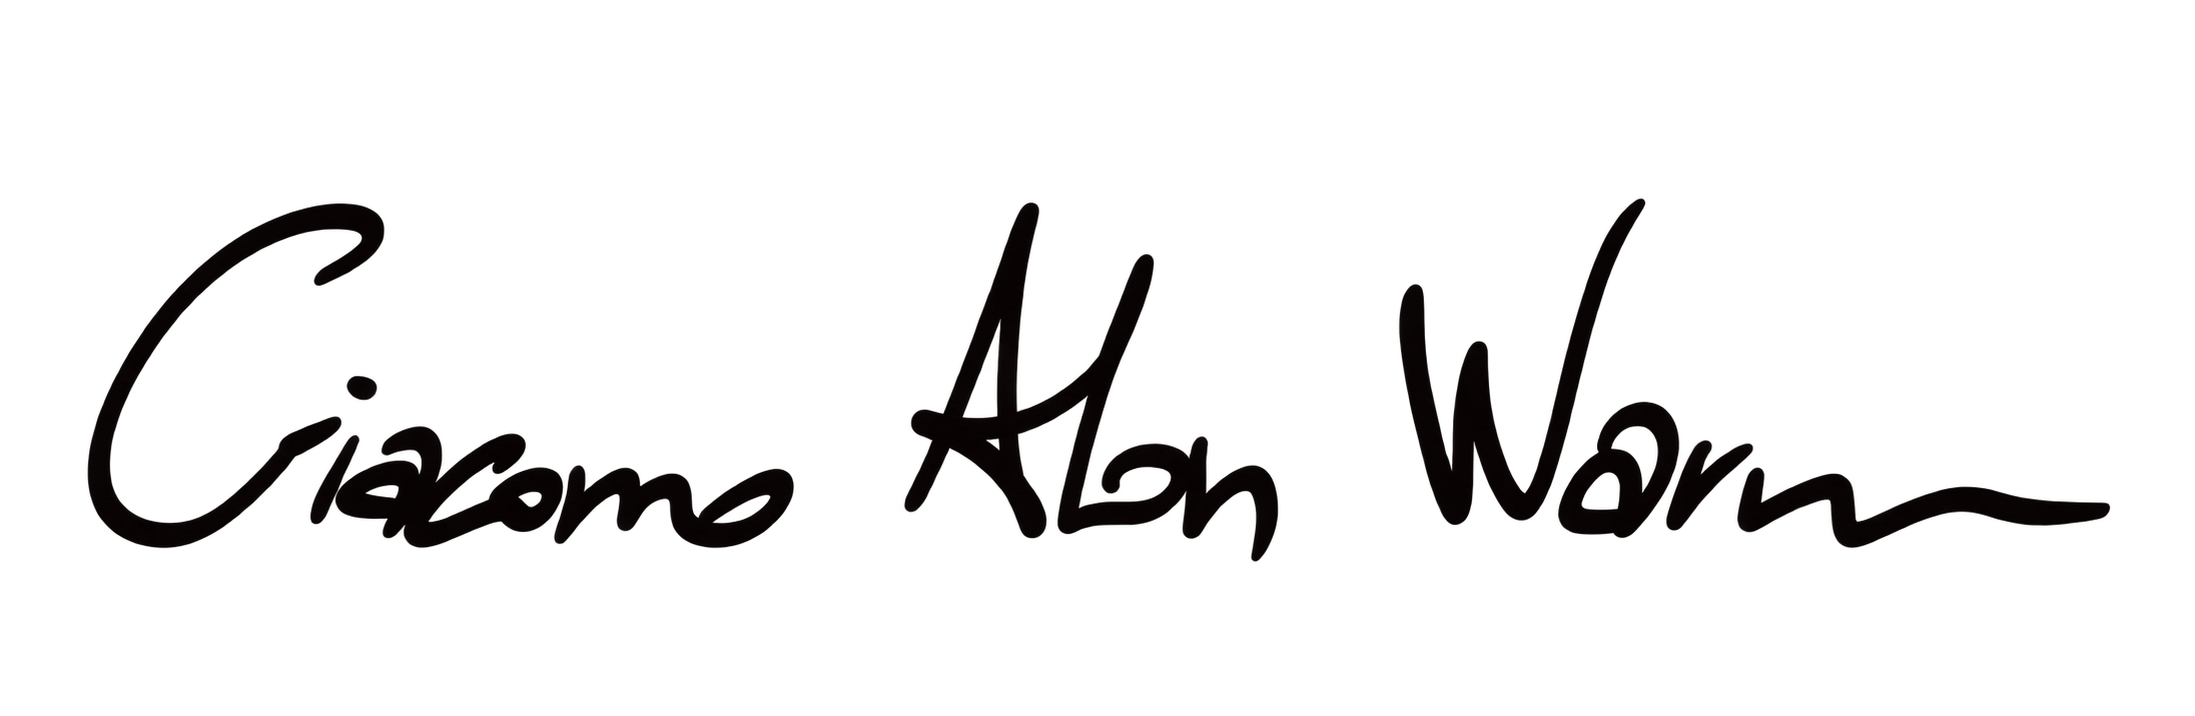
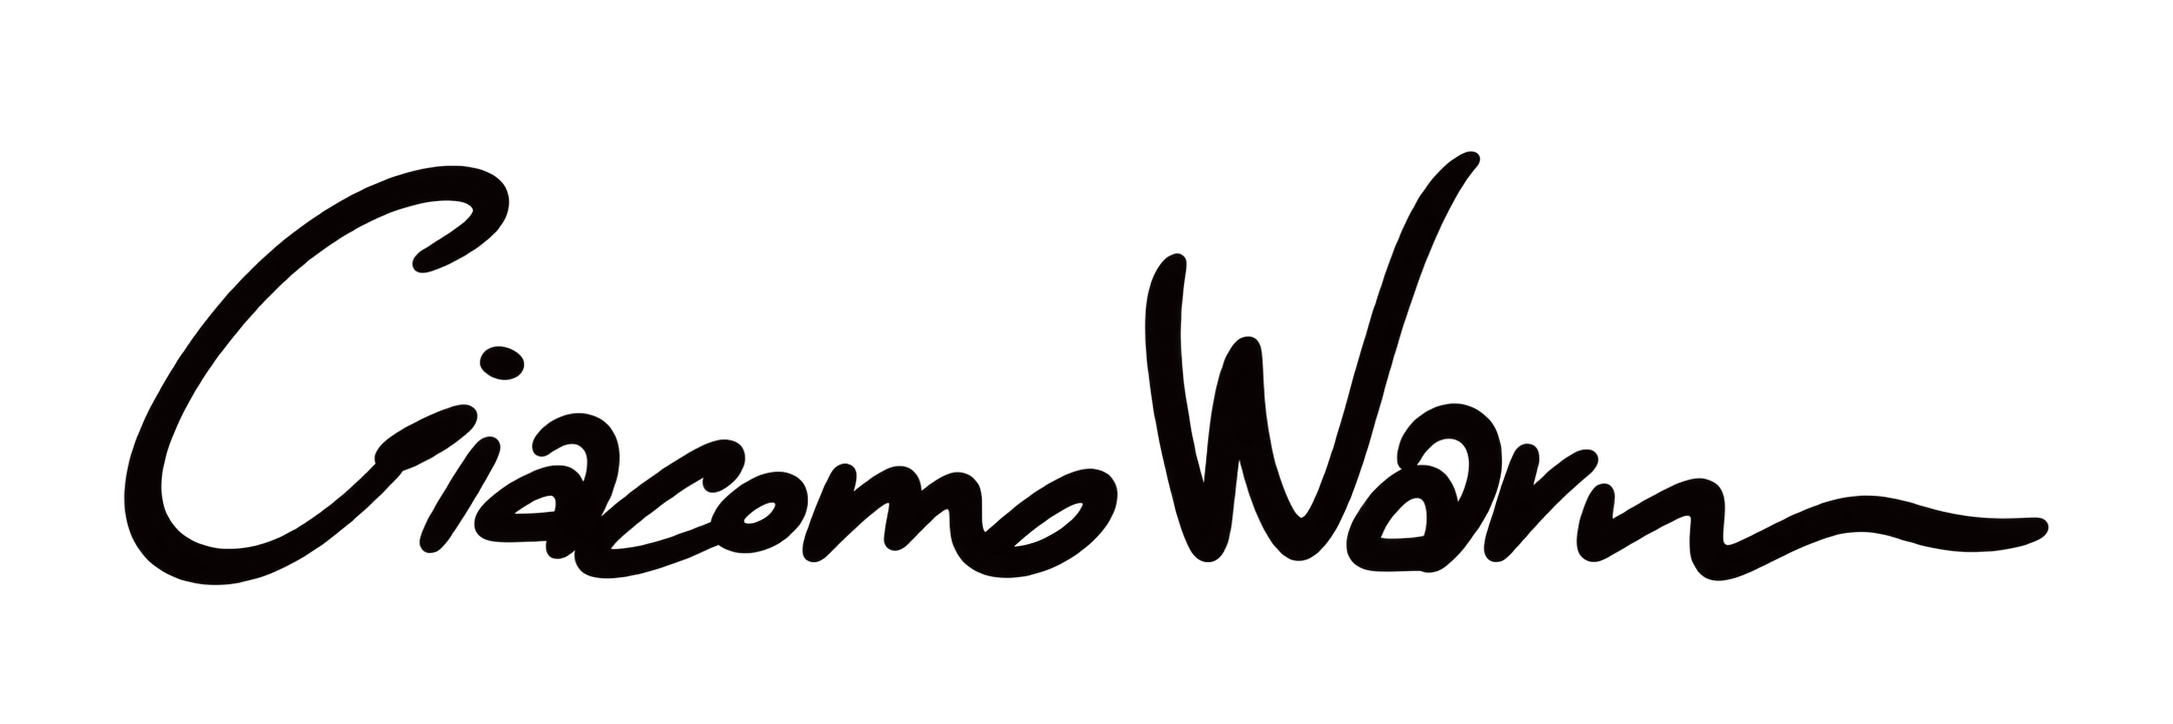
Remove middle name from signature

diff --git a/eureka.html b/eureka.html
@@ -1545,7 +1545,7 @@ footer a { display: inline-flex; align-items: center; }
         <span class="hero-credit__roles" aria-label="Ideatore, realizzatore, pubblicatore">
           <span>IDEATORE</span><span>REALIZZATORE</span><span>PUBBLICATORE</span>
         </span>
-        <img class="hero-credit__signature" src="assets/branding/firma-giacomo-warm.png" width="2195" height="716" alt="Firma di Giacomo Warm" decoding="async">
+        <img class="hero-credit__signature" src="assets/branding/firma-giacomo-warm.png" width="2173" height="724" alt="Firma di Giacomo Warm" decoding="async">
       </div>
       <p class="hero-tagline">
         un'idea. una riunione. un istituto. <em>eureka!</em> è la lista del <a href="https://www.liceoarchimedeme.edu.it" target="_blank" rel="noopener" class="school-link">liceo archimede</a> di messina.

diff --git a/index.html b/index.html
@@ -1545,7 +1545,7 @@ footer a { display: inline-flex; align-items: center; }
         <span class="hero-credit__roles" aria-label="Ideatore, realizzatore, pubblicatore">
           <span>IDEATORE</span><span>REALIZZATORE</span><span>PUBBLICATORE</span>
         </span>
-        <img class="hero-credit__signature" src="assets/branding/firma-giacomo-warm.png" width="2195" height="716" alt="Firma di Giacomo Warm" decoding="async">
+        <img class="hero-credit__signature" src="assets/branding/firma-giacomo-warm.png" width="2173" height="724" alt="Firma di Giacomo Warm" decoding="async">
       </div>
       <p class="hero-tagline">
         un'idea. una riunione. un istituto. <em>eureka!</em> è la lista del <a href="https://www.liceoarchimedeme.edu.it" target="_blank" rel="noopener" class="school-link">liceo archimede</a> di messina.
